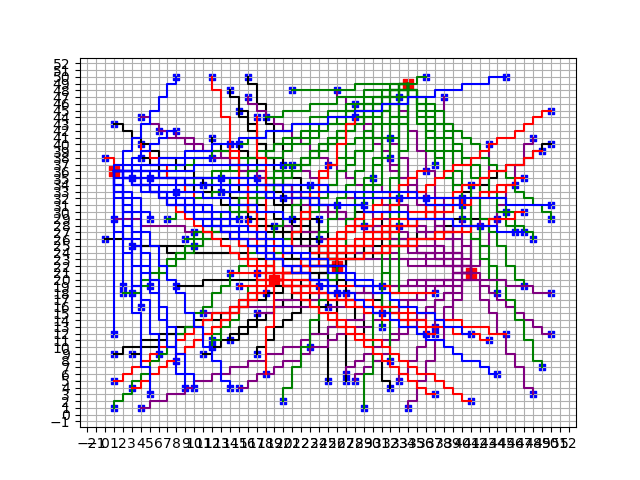
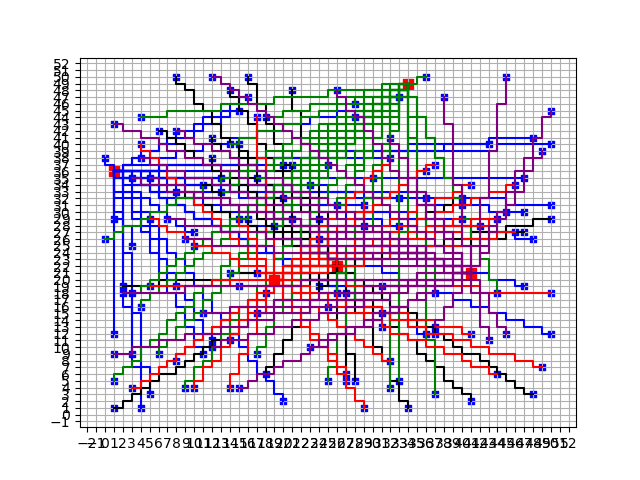
simulated annealing algorithm, sorting of files and programs

diff --git a/algorithms/simulated_annealing.py b/algorithms/simulated_annealing.py
@@ -1,0 +1,63 @@
+from ..classes.houses import Houses
+from ..classes.batteries import Batteries
+from ..classes.wires import Wires
+from ..calculator import calculate_shared_cost
+import random
+
+
+def simulated_annealing(wijk_num, N, temperature, delta_t):
+
+    # load the data
+    houses = Houses(f'../data/district_{wijk_num}/district-{wijk_num}_houses.csv')             # noqa: E501
+    batteries = Batteries(f'../data/district_{wijk_num}/district-{wijk_num}_batteries.csv')    # noqa: E501
+    wires = Wires()
+
+    # initialise a grid
+    grid = False
+    while grid == False:
+        grid = wires.generate(houses, batteries)
+    
+    # calculate the cost
+    wires.shared_wires = wires.share_wires(wires.wires)
+    cost = calculate_shared_cost(wires.shared_wires, batteries)
+
+    # initialise the temperature
+    t = temperature
+
+    for iteration in range(N):
+
+        # swap two houses until a valid solution has been found
+        new_grid = False
+        while new_grid == False:
+            house_1 = houses.random_pick()
+            house_2 = houses.random_pick()
+            new_grid = wires.swap(house_1, house_2)
+        
+        # calculate new cost
+        new_wire_set = wires.share_wires(new_grid)
+        new_cost = calculate_shared_cost(new_wire_set, batteries)
+
+        # always accept better solutions
+        if new_cost < cost:
+            cost = new_cost
+            wires.wires = new_grid
+            wires.shared_wires = new_wire_set
+
+        else:
+
+            # calculate the acceptance chance and generate a random number
+            random_nr = random.random()
+            r_acceptance = 2 ** ((cost - new_cost) / temperature)
+
+            # if the random number is lower, accept the changes
+            if random_nr < r_acceptance:
+                cost = new_cost
+                wires.wires = new_grid
+                wires.shared_wires = new_wire_set
+        
+        # lower the temperature after every iteration
+        t -= delta_t
+
+
+if __name__ == "__main__":
+    pass

diff --git a/classes/wires.py b/classes/wires.py
@@ -1,7 +1,5 @@
-from houses import Houses, House
-from batteries import Batteries, Battery
 from typing import Type, Tuple, List, Dict
-from path_finders import random_path_finder
+from path_finders import random_pathfinder
 from copy import deepcopy
 
 
@@ -23,7 +21,7 @@ class Wire():
         a list of coordinates along which the wire is laid
     """
 
-    def __init__(self, id: int, house: Type[House], battery: Type[Battery],
+    def __init__(self, id: int, house, battery,
                  path: List[Tuple[int, int]]) -> None:
         self.id = id
         self.house = house
@@ -67,8 +65,8 @@ class Wires():
         self.wires = {}
         self.shared_wires = {}
 
-    def generate(self, houses: Type[Houses],
-                 batteries: Type[Batteries]) -> bool:
+    def generate(self, houses,
+                 batteries) -> bool:
 
         # Get random order for iterating houses and batteries
         random_order_houses = houses.shuffle_order()
@@ -97,13 +95,13 @@ class Wires():
 
     def generate_wire(self, wire_id, house, battery) -> Type[Wire]:
         # self.connect(house, battery)
-        wire_path = random_path_finder(house.position,
+        wire_path = random_pathfinder(house.position,
                                         battery.position)
         # Make new wire
         wire = Wire(wire_id, house, battery, wire_path)
         return wire
 
-    def connect(self, house: Type[House], battery: Type[Battery]) -> None:
+    def connect(self, house, battery) -> None:
         house.connect(battery)
         battery.connect(house)
 

diff --git a/main.py b/main.py
@@ -1,9 +1,9 @@
 import argparse
 from copy import deepcopy
 import json
-from houses import Houses
-from batteries import Batteries
-from wires import Wires
+from classes.houses import Houses
+from classes.batteries import Batteries
+from classes.wires import Wires
 from calculator import calculate_shared_cost, calculate_own_cost
 from visualize import visualize_grid, visualize_bar, visualize_hill
 

diff --git a/classes/houses.py b/classes/houses.py
@@ -2,7 +2,6 @@ import pandas as pd
 import random
 import numpy as np
 from typing import Dict, Tuple, Type, List
-from batteries import Battery
 
 
 class House():
@@ -42,7 +41,7 @@ class House():
     def assign_wire(self, wire) -> None:
         self.wire = wire
 
-    def connect(self, battery: Type[Battery]) -> None:
+    def connect(self, battery) -> None:
         self.battery = battery
 
 

diff --git a/calculator.py b/calculator.py
@@ -1,9 +1,7 @@
 # takes in the amount of wire used and batteries used, and calculates the cost
 from typing import Type
-from batteries import Batteries
-from houses import Houses
-from wires import Wires
-
+from classes.batteries import Batteries
+from classes.houses import Houses
 
 def calculate_own_cost(houses: Type[Houses],
                        batteries: Type[Batteries]) -> float:
